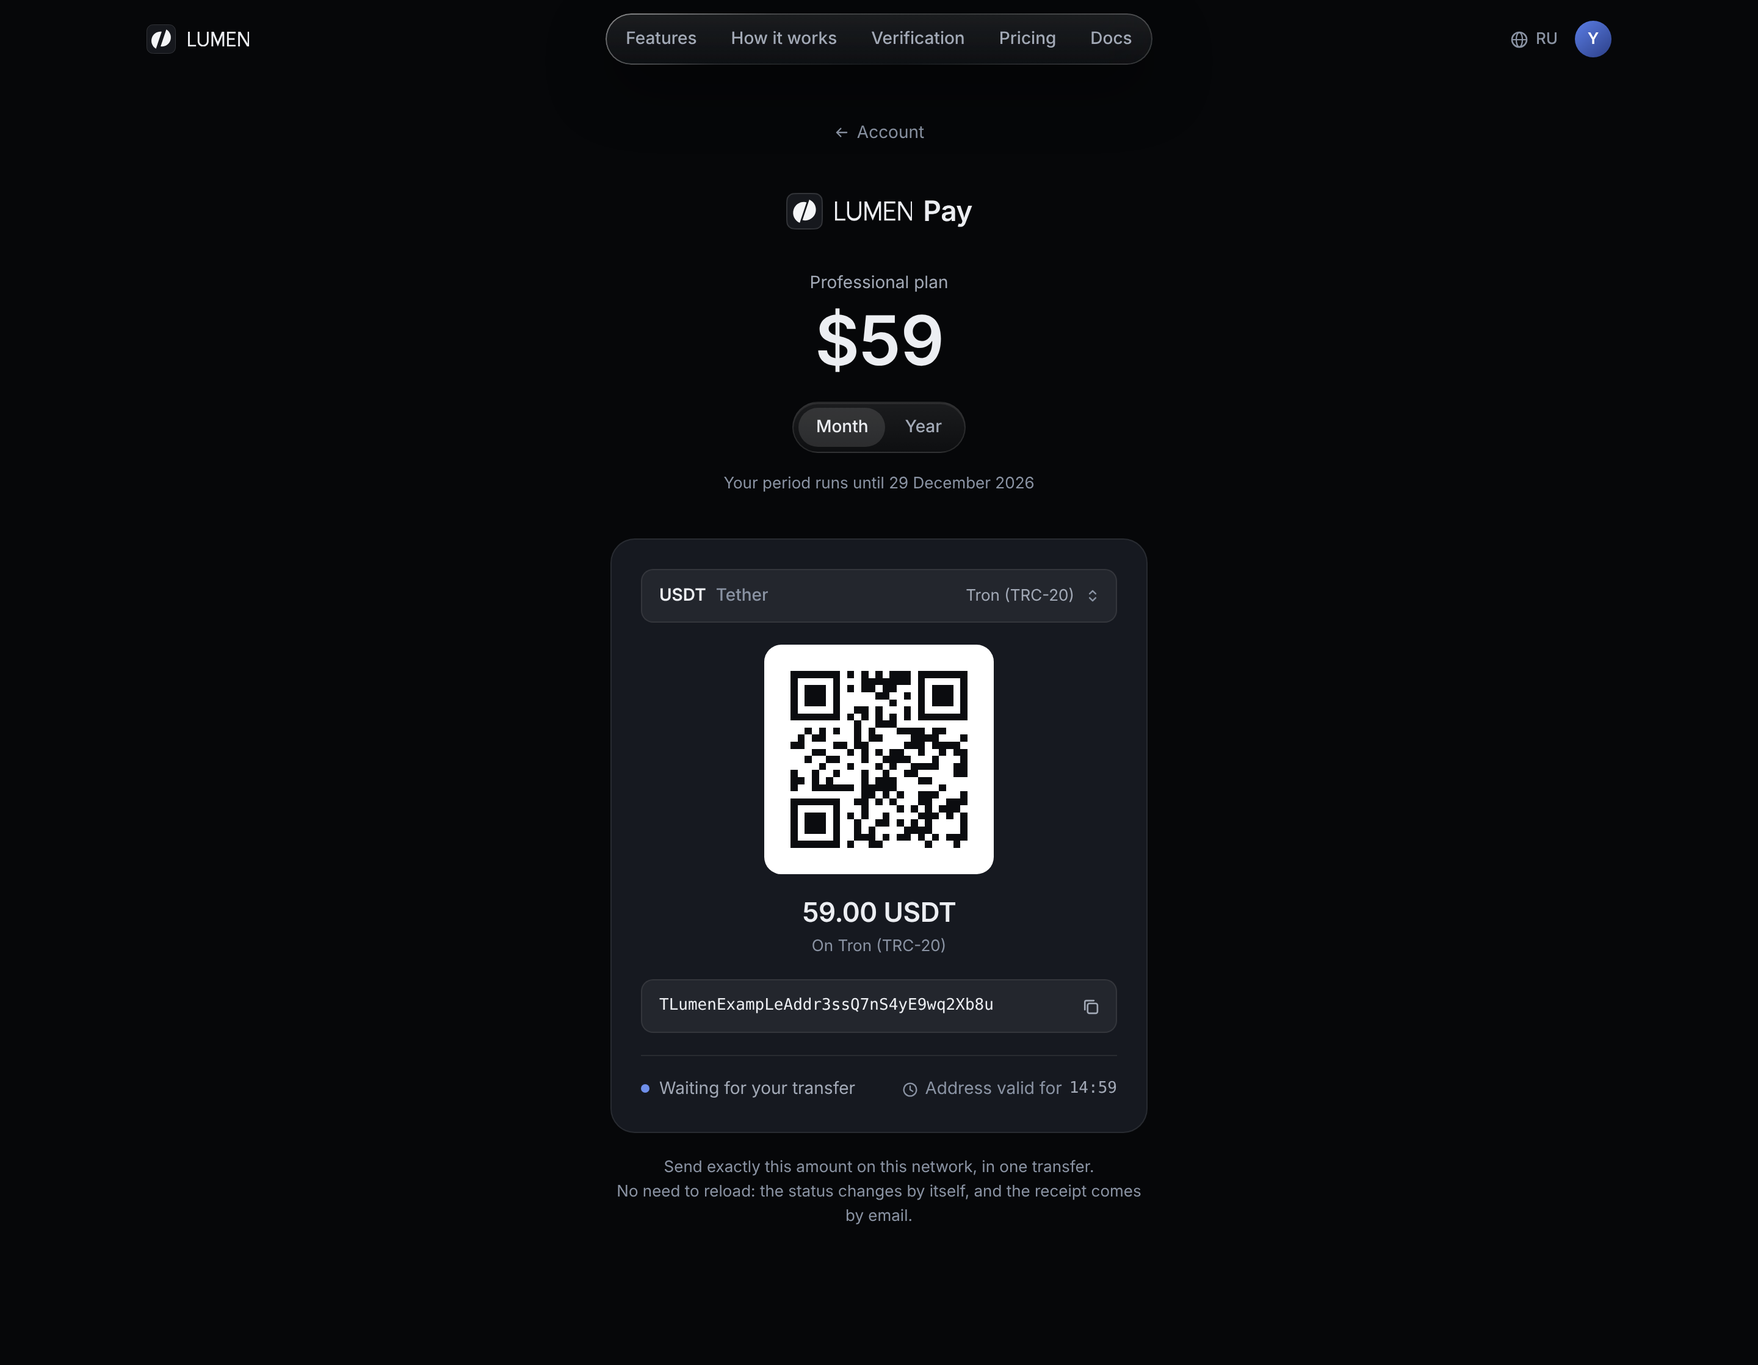
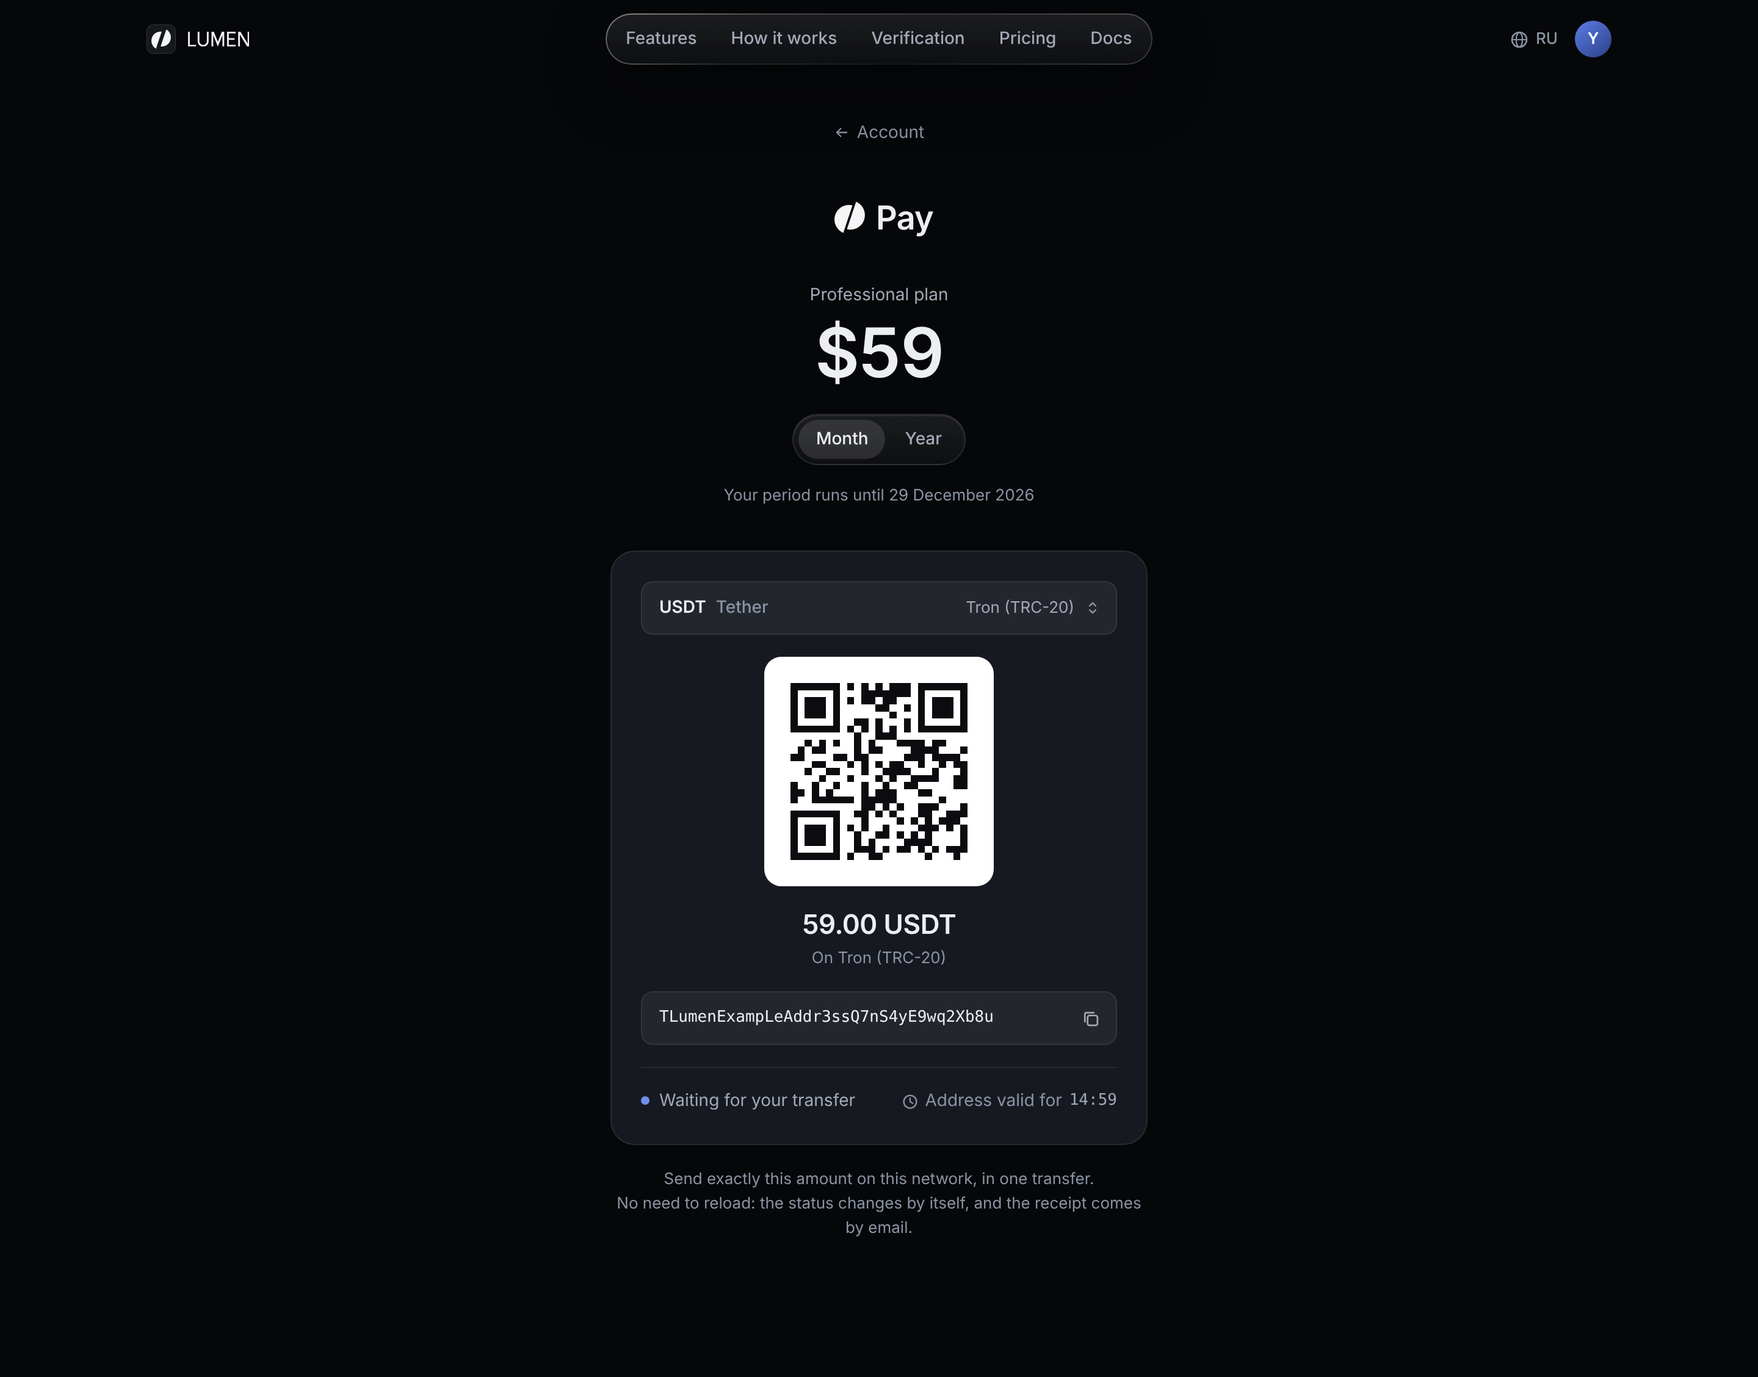
Site prototype: Lumen Pay is the round mark and «Pay» — no tile, no LUMEN [skip ci]
The payment page's lockup was the mark on its dark tile, the LUMEN wordmark and «Pay».
The owner asked for the round mark alone, without the square behind it, and «Pay» beside it.
Shots of the payment page and the overviews are re-rendered.

Also drops menu390.png, a stray debug screenshot of the phone menu from the old copy
(it still showed the card and macOS 14 wording the site no longer has).

Claude-Session: https://claude.ai/code/session_01SuPynwDA7PVcpL99i5Nfn9

diff --git a/design/site/prototype/ru/checkout.html b/design/site/prototype/ru/checkout.html
@@ -42,10 +42,10 @@
     #pay-month:focus-visible ~ .container .pay label[for="pay-month"], #pay-year:focus-visible ~ .container .pay label[for="pay-year"] { outline: 2px solid var(--accent); outline-offset: 1px; }
     .pay-back { display: inline-flex; align-items: center; gap: 6px; font: var(--t-small); color: var(--text-tertiary); }
     .pay-back:hover { color: var(--text-primary); text-decoration: none; }
-    /* Lumen Pay: the mark, LUMEN and «Pay» — our own payment page, never the processor's name */
-    .pay-brand { display: inline-flex; align-items: center; gap: 10px; margin-top: 36px; color: var(--text-primary); }
-    .pay-brand .pay-wm svg { display: block; }
-    .pay-brand .pay-pay { font: 600 23px/1 var(--font-display); letter-spacing: -0.01em; margin-left: -1px; }
+    /* Lumen Pay: the round mark alone (no tile behind it) and «Pay» — our own payment page, never the processor's name */
+    .pay-brand { display: inline-flex; align-items: center; gap: 2px; margin-top: 36px; color: var(--text-primary); }
+    .pay-brand svg { display: block; flex: none; }
+    .pay-brand .pay-pay { font: 600 27px/1 var(--font-display); letter-spacing: -0.015em; }
     .pay-head { margin-top: 26px; display: grid; justify-items: center; gap: 6px; }
     .pay-plan { font: var(--t-small); color: var(--text-secondary); }
     .pay-sum { font: 600 56px/60px var(--font-display); letter-spacing: -0.025em; color: var(--text-primary); font-variant-numeric: tabular-nums; }
@@ -98,7 +98,7 @@
   <div class="container"><div class="pay" data-pay>
     <a class="pay-back" href="account.html"><svg class="icon" width="13" height="13" viewBox="0 0 16 16" aria-hidden="true" focusable="false"><path d="M13 8H3M7 4L3 8l4 4" fill="none" stroke="currentColor" stroke-width="1.4" stroke-linecap="round" stroke-linejoin="round"/></svg>Аккаунт</a>
     <h1 class="visually-hidden">Оплата</h1>
-    <div><span class="pay-brand" aria-label="Lumen Pay"><svg xmlns="http://www.w3.org/2000/svg" width="30" height="30" viewBox="0 0 30 30" aria-hidden="true"><path d="M19.272 0c3.755 0 5.633 0 7.067 0.731a6.705 6.705 0 0 1 2.93 2.93c0.731 1.434 0.731 3.312 0.731 7.067L30 19.272c0 3.755 0 5.633 -0.7308012553169935 7.067a6.705 6.705 0 0 1 -2.930192443929345 2.93c-1.4342782211214833 0.731 -3.3118542476655435 0.731 -7.067006300753663 0.731L10.728 30c-3.75515205308812 0 -5.63272807963218 0 -7.067006300753663 -0.7308012553169935a6.705 6.705 0 0 1 -2.930192443929345 -2.930192443929345c-0.7308012553169935 -1.4342782211214833 -0.7308012553169935 -3.3118542476655435 -0.7308012553169935 -7.067006300753663L0 10.728c0 -3.75515205308812 0 -5.63272807963218 0.731 -7.067006300753663a6.705 6.705 0 0 1 2.93 -2.930192443929345c1.434 -0.7308012553169935 3.312 -0.7308012553169935 7.067 -0.7308012553169935Z" fill="#16181D"/><path d="M19.572 0.5c3.475 0 5.213 0 6.54 0.676a6.205 6.205 0 0 1 2.712 2.712c0.676 1.327 0.676 3.065 0.676 6.54L29.5 19.572c0 3.475 0 5.213 -0.6763045174111774 6.54a6.205 6.205 0 0 1 -2.7116844317049345 2.712c-1.3273223507917677 0.676 -3.064885250822475 0.676 -6.540011050883889 0.676L10.428 29.5c-3.4751258000614142 0 -5.212688700092121 0 -6.540011050883889 -0.6763045174111774a6.205 6.205 0 0 1 -2.7116844317049345 -2.7116844317049345c-0.6763045174111774 -1.3273223507917677 -0.6763045174111774 -3.064885250822475 -0.6763045174111774 -6.540011050883889L0.5 10.428c0 -3.4751258000614142 0 -5.212688700092121 0.676 -6.540011050883889a6.205 6.205 0 0 1 2.712 -2.7116844317049345c1.327 -0.6763045174111774 3.065 -0.6763045174111774 6.54 -0.6763045174111774Z" fill="none" stroke="rgba(255,255,255,0.12)" stroke-width="1"/><path d="M13.304 22.311L18.919 5.465C23.197 7.278 25.363 12.075 23.894 16.482C22.425 20.89 17.814 23.428 13.304 22.311ZM11.081 24.535L16.696 7.689C12.186 6.572 7.575 9.11 6.106 13.518C4.637 17.925 6.803 22.722 11.081 24.535Z" fill="#F4F5F7"/></svg><span class="pay-wm"><svg xmlns="http://www.w3.org/2000/svg" width="63.686" height="16" viewBox="0 0 406 102" aria-hidden="true"><path d="M0 0L10.5 0L10.5 100L0 100ZM0 90L54 90L54 100L0 100ZM63 0L63 64.5C63 84.935 79.565 101.5 100 101.5C120.435 101.5 137 84.935 137 64.5L137 0L126.5 0L126.5 61.5C126.5 76.136 114.636 88 100 88C85.364 88 73.5 76.136 73.5 61.5L73.5 0ZM154 0L166.2 0L197 72.02L227.8 0L240 0L240 100L229.5 100L229.5 24L197 100L164.5 24L164.5 100L154 100ZM257 0L267.5 0L267.5 100L257 100ZM257 0L315 0L315 10L257 10ZM257 43.5L308 43.5L308 53.5L257 53.5ZM257 90L315 90L315 100L257 100ZM330 0L340.5 0L340.5 100L330 100ZM395.5 0L406 0L406 100L395.5 100ZM330 0L343.56 0L406 100L392.44 100Z" fill="currentColor"/></svg></span><span class="pay-pay">Pay</span></span></div>
+    <div><span class="pay-brand" role="img" aria-label="Lumen Pay"><svg xmlns="http://www.w3.org/2000/svg" width="40" height="40" viewBox="0 0 40 40" aria-hidden="true"><path d="M17.739 29.748L25.226 7.287C30.93 9.704 33.818 16.1 31.859 21.976C29.9 27.853 23.752 31.237 17.739 29.748ZM14.774 32.713L22.261 10.252C16.248 8.763 10.1 12.147 8.141 18.024C6.182 23.9 9.07 30.296 14.774 32.713Z" fill="#F4F5F7"/></svg><span class="pay-pay" aria-hidden="true">Pay</span></span></div>
     <div class="pay-head">
       <p class="pay-plan">Тариф Профессиональный</p>
       <div class="pay-sum"><span class="p-m">$59</span><span class="p-y">$590</span></div>

diff --git a/design/site/prototype/en/checkout.html b/design/site/prototype/en/checkout.html
@@ -42,10 +42,10 @@
     #pay-month:focus-visible ~ .container .pay label[for="pay-month"], #pay-year:focus-visible ~ .container .pay label[for="pay-year"] { outline: 2px solid var(--accent); outline-offset: 1px; }
     .pay-back { display: inline-flex; align-items: center; gap: 6px; font: var(--t-small); color: var(--text-tertiary); }
     .pay-back:hover { color: var(--text-primary); text-decoration: none; }
-    /* Lumen Pay: the mark, LUMEN and «Pay» — our own payment page, never the processor's name */
-    .pay-brand { display: inline-flex; align-items: center; gap: 10px; margin-top: 36px; color: var(--text-primary); }
-    .pay-brand .pay-wm svg { display: block; }
-    .pay-brand .pay-pay { font: 600 23px/1 var(--font-display); letter-spacing: -0.01em; margin-left: -1px; }
+    /* Lumen Pay: the round mark alone (no tile behind it) and «Pay» — our own payment page, never the processor's name */
+    .pay-brand { display: inline-flex; align-items: center; gap: 2px; margin-top: 36px; color: var(--text-primary); }
+    .pay-brand svg { display: block; flex: none; }
+    .pay-brand .pay-pay { font: 600 27px/1 var(--font-display); letter-spacing: -0.015em; }
     .pay-head { margin-top: 26px; display: grid; justify-items: center; gap: 6px; }
     .pay-plan { font: var(--t-small); color: var(--text-secondary); }
     .pay-sum { font: 600 56px/60px var(--font-display); letter-spacing: -0.025em; color: var(--text-primary); font-variant-numeric: tabular-nums; }
@@ -98,7 +98,7 @@
   <div class="container"><div class="pay" data-pay>
     <a class="pay-back" href="account.html"><svg class="icon" width="13" height="13" viewBox="0 0 16 16" aria-hidden="true" focusable="false"><path d="M13 8H3M7 4L3 8l4 4" fill="none" stroke="currentColor" stroke-width="1.4" stroke-linecap="round" stroke-linejoin="round"/></svg>Account</a>
     <h1 class="visually-hidden">Payment</h1>
-    <div><span class="pay-brand" aria-label="Lumen Pay"><svg xmlns="http://www.w3.org/2000/svg" width="30" height="30" viewBox="0 0 30 30" aria-hidden="true"><path d="M19.272 0c3.755 0 5.633 0 7.067 0.731a6.705 6.705 0 0 1 2.93 2.93c0.731 1.434 0.731 3.312 0.731 7.067L30 19.272c0 3.755 0 5.633 -0.7308012553169935 7.067a6.705 6.705 0 0 1 -2.930192443929345 2.93c-1.4342782211214833 0.731 -3.3118542476655435 0.731 -7.067006300753663 0.731L10.728 30c-3.75515205308812 0 -5.63272807963218 0 -7.067006300753663 -0.7308012553169935a6.705 6.705 0 0 1 -2.930192443929345 -2.930192443929345c-0.7308012553169935 -1.4342782211214833 -0.7308012553169935 -3.3118542476655435 -0.7308012553169935 -7.067006300753663L0 10.728c0 -3.75515205308812 0 -5.63272807963218 0.731 -7.067006300753663a6.705 6.705 0 0 1 2.93 -2.930192443929345c1.434 -0.7308012553169935 3.312 -0.7308012553169935 7.067 -0.7308012553169935Z" fill="#16181D"/><path d="M19.572 0.5c3.475 0 5.213 0 6.54 0.676a6.205 6.205 0 0 1 2.712 2.712c0.676 1.327 0.676 3.065 0.676 6.54L29.5 19.572c0 3.475 0 5.213 -0.6763045174111774 6.54a6.205 6.205 0 0 1 -2.7116844317049345 2.712c-1.3273223507917677 0.676 -3.064885250822475 0.676 -6.540011050883889 0.676L10.428 29.5c-3.4751258000614142 0 -5.212688700092121 0 -6.540011050883889 -0.6763045174111774a6.205 6.205 0 0 1 -2.7116844317049345 -2.7116844317049345c-0.6763045174111774 -1.3273223507917677 -0.6763045174111774 -3.064885250822475 -0.6763045174111774 -6.540011050883889L0.5 10.428c0 -3.4751258000614142 0 -5.212688700092121 0.676 -6.540011050883889a6.205 6.205 0 0 1 2.712 -2.7116844317049345c1.327 -0.6763045174111774 3.065 -0.6763045174111774 6.54 -0.6763045174111774Z" fill="none" stroke="rgba(255,255,255,0.12)" stroke-width="1"/><path d="M13.304 22.311L18.919 5.465C23.197 7.278 25.363 12.075 23.894 16.482C22.425 20.89 17.814 23.428 13.304 22.311ZM11.081 24.535L16.696 7.689C12.186 6.572 7.575 9.11 6.106 13.518C4.637 17.925 6.803 22.722 11.081 24.535Z" fill="#F4F5F7"/></svg><span class="pay-wm"><svg xmlns="http://www.w3.org/2000/svg" width="63.686" height="16" viewBox="0 0 406 102" aria-hidden="true"><path d="M0 0L10.5 0L10.5 100L0 100ZM0 90L54 90L54 100L0 100ZM63 0L63 64.5C63 84.935 79.565 101.5 100 101.5C120.435 101.5 137 84.935 137 64.5L137 0L126.5 0L126.5 61.5C126.5 76.136 114.636 88 100 88C85.364 88 73.5 76.136 73.5 61.5L73.5 0ZM154 0L166.2 0L197 72.02L227.8 0L240 0L240 100L229.5 100L229.5 24L197 100L164.5 24L164.5 100L154 100ZM257 0L267.5 0L267.5 100L257 100ZM257 0L315 0L315 10L257 10ZM257 43.5L308 43.5L308 53.5L257 53.5ZM257 90L315 90L315 100L257 100ZM330 0L340.5 0L340.5 100L330 100ZM395.5 0L406 0L406 100L395.5 100ZM330 0L343.56 0L406 100L392.44 100Z" fill="currentColor"/></svg></span><span class="pay-pay">Pay</span></span></div>
+    <div><span class="pay-brand" role="img" aria-label="Lumen Pay"><svg xmlns="http://www.w3.org/2000/svg" width="40" height="40" viewBox="0 0 40 40" aria-hidden="true"><path d="M17.739 29.748L25.226 7.287C30.93 9.704 33.818 16.1 31.859 21.976C29.9 27.853 23.752 31.237 17.739 29.748ZM14.774 32.713L22.261 10.252C16.248 8.763 10.1 12.147 8.141 18.024C6.182 23.9 9.07 30.296 14.774 32.713Z" fill="#F4F5F7"/></svg><span class="pay-pay" aria-hidden="true">Pay</span></span></div>
     <div class="pay-head">
       <p class="pay-plan">Professional plan</p>
       <div class="pay-sum"><span class="p-m">$59</span><span class="p-y">$590</span></div>

diff --git a/design/site/spec.md b/design/site/spec.md
@@ -200,7 +200,7 @@
 
 **Документация** (`docs.html`, `docs-*.html`). Оглавление — разделы со статьями; статья — навигация слева, текст, «На этой странице» справа, внизу «Назад» и «Дальше» по порядку оглавления. Под заголовком — по какому коду написано и время чтения словами. Отметка «Не подтверждено» — жёлтая, видна всегда (не только в режиме проверки): в строке — плашка с подписью, блоком — пунктирная рамка с заголовком. Длинный путь в `code` в статье может переноситься, чтобы страница не уезжала вбок на телефоне.
 
-**Оплата — Lumen Pay** (`checkout.html`). Своя страница, не страница процессинга, и нарочно минимальная; наверху марка Lumen Pay — знак, надпись LUMEN и «Pay»: одна колонка шириной 440 по центру. Сверху — тариф, сумма крупно (56/60) и переключатель «Месяц / Год» (две радиокнопки и CSS, без скрипта; год — «цена десяти месяцев»), под ним одной строкой, до какого числа продлится период. Ниже одна карточка перевода: монета — списком с поиском (монет и сетей будет много; одна строка «тикер · название · сеть», в открытом виде поле «Монета или сеть» и прокручиваемый список; выбор меняет сумму в монете, сеть, адрес и QR-код), QR-код (в макете — рисунок-образец; на настоящей странице его делает код из адреса и суммы), сумма в монете и сеть, адрес одной строкой с кнопкой копирования, внизу — статус («Ждём перевод») и таймер действия адреса. Под карточкой две короткие строки: отправить ровно эту сумму в этой сети; обновлять страницу не нужно. Название процессинга не выводится. Карт на сайте нет нигде; автопродления нет — криптовалюту нельзя списать автоматически, поэтому в кабинете «Период оплачен до» и «Продлить», а напоминание приходит на почту заранее.
+**Оплата — Lumen Pay** (`checkout.html`). Своя страница, не страница процессинга, и нарочно минимальная; наверху марка Lumen Pay — круглый знак без плашки и «Pay»: одна колонка шириной 440 по центру. Сверху — тариф, сумма крупно (56/60) и переключатель «Месяц / Год» (две радиокнопки и CSS, без скрипта; год — «цена десяти месяцев»), под ним одной строкой, до какого числа продлится период. Ниже одна карточка перевода: монета — списком с поиском (монет и сетей будет много; одна строка «тикер · название · сеть», в открытом виде поле «Монета или сеть» и прокручиваемый список; выбор меняет сумму в монете, сеть, адрес и QR-код), QR-код (в макете — рисунок-образец; на настоящей странице его делает код из адреса и суммы), сумма в монете и сеть, адрес одной строкой с кнопкой копирования, внизу — статус («Ждём перевод») и таймер действия адреса. Под карточкой две короткие строки: отправить ровно эту сумму в этой сети; обновлять страницу не нужно. Название процессинга не выводится. Карт на сайте нет нигде; автопродления нет — криптовалюту нельзя списать автоматически, поэтому в кабинете «Период оплачен до» и «Продлить», а напоминание приходит на почту заранее.
 
 **Цены.** Переключатель «Помесячно / За год» — два radio и CSS. Карточка тарифа: имя H3, для кого, цена 44/48, кнопка, лимиты. Рекомендуемый — граница акцентом 50 % и метка «Рекомендуем» (не «чаще выбирают»: такого утверждения нет).
 
